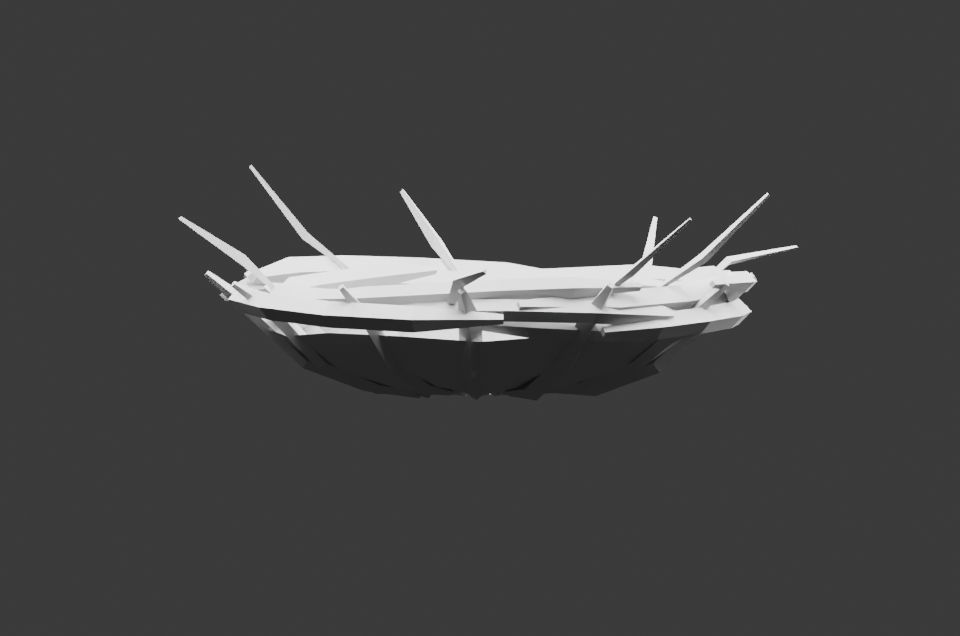
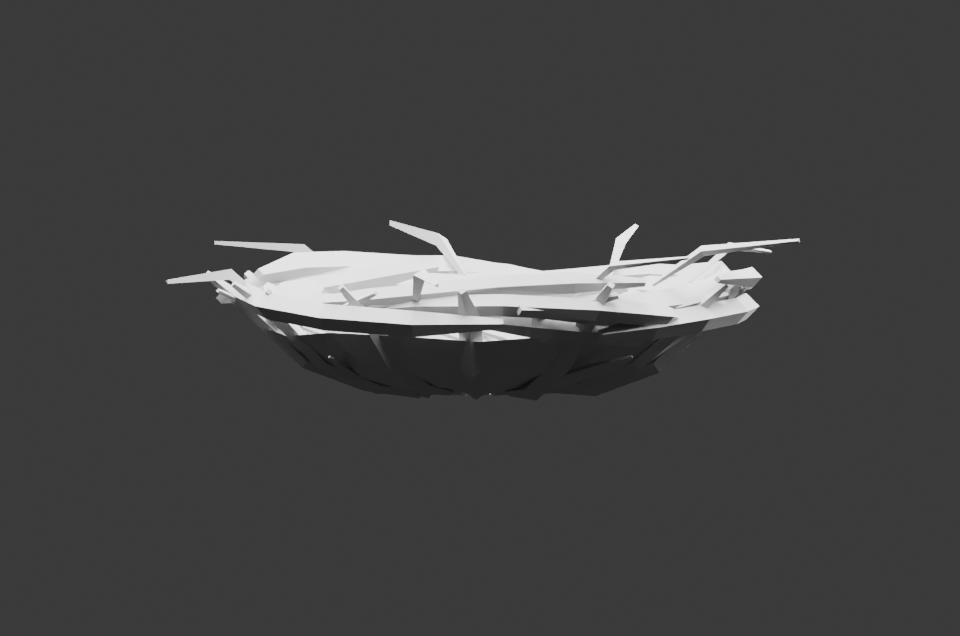
Refine gray nest weaving and reduce stalk height

Changed region(s): [[0.1562, 0.2987, 0.8438, 0.5377], [0.7812, 0.2987, 0.8125, 0.3286], [0.25, 0.2689, 0.2812, 0.2987]]

diff --git a/assets/godfrey/nest-straw/build_nest.py b/assets/godfrey/nest-straw/build_nest.py
@@ -104,10 +104,44 @@ def build_geometry():
         path = []
         for j in range(6):
             a = start + sweep * j / 5
-            r = radius + 0.017 * math.sin(3 * a + i)
-            z = z_base + 0.012 * math.sin(2 * a + i)
+            r = radius + 0.030 * math.sin(3 * a + i)
+            z = z_base + 0.020 * math.sin(2 * a + i)
             path.append((0.95 * r * math.cos(a), 0.85 * r * math.sin(a), z))
         woven_strip(path, RNG.uniform(0.016, 0.026), i % 3 if i % 5 == 0 else i % 2)
+
+    # Short diagonals lock the rim bands together and interrupt the tidy
+    # concentric reading. Their ends disappear into adjacent larger fibers.
+    for i in range(9):
+        a = 2 * math.pi * i / 9 + RNG.uniform(-0.18, 0.18)
+        path = []
+        for j, r in enumerate((0.32, 0.39, 0.44)):
+            theta = a + (j - 1) * 0.22
+            path.append((0.95 * r * math.cos(theta),
+                         0.85 * r * math.sin(theta),
+                         0.16 + 0.025 * j + 0.008 * math.sin(i + j)))
+        woven_strip(path, RNG.uniform(0.009, 0.015), i % 3)
+
+    # Loose shorter fibers cross the recessed inner well at changing radii.
+    # A few darker underside ties show beneath the shallow sidewall.
+    for i in range(9):
+        a = 2 * math.pi * i / 9 + RNG.uniform(-0.20, 0.20)
+        path = []
+        for j in range(4):
+            theta = a + 0.25 * j
+            r = 0.17 + 0.045 * j + 0.012 * math.sin(i + j)
+            z = 0.075 + 0.022 * j + 0.006 * math.cos(i - j)
+            path.append((0.95 * r * math.cos(theta),
+                         0.85 * r * math.sin(theta), z))
+        woven_strip(path, RNG.uniform(0.006, 0.010), 2 if i % 3 else 1)
+    for i in range(4):
+        a = 2 * math.pi * (i + 0.35) / 4
+        path = []
+        for j, r in enumerate((0.24, 0.30, 0.36)):
+            theta = a + 0.12 * j
+            path.append((0.95 * r * math.cos(theta),
+                         0.85 * r * math.sin(theta),
+                         0.075 + 0.018 * j))
+        woven_strip(path, 0.007, 2)
 
     # A few outward stalks puncture the silhouette. They do not form a uniform fringe.
     for i, a in enumerate((0.2, 0.9, 1.55, 2.28, 3.4, 4.45, 5.16, 5.72)):
@@ -117,7 +151,7 @@ def build_geometry():
         path = [
             (0.95 * 0.36 * math.cos(a), 0.85 * 0.36 * math.sin(a), z0),
             (0.95 * 0.44 * math.cos(a + 0.08), 0.85 * 0.44 * math.sin(a + 0.08), z0 + 0.055),
-            (0.95 * reach * math.cos(a + 0.17), 0.85 * reach * math.sin(a + 0.17), z0 + RNG.uniform(0.07, 0.17)),
+            (0.95 * reach * math.cos(a + 0.17), 0.85 * reach * math.sin(a + 0.17), z0 + RNG.uniform(0.035, 0.085)),
         ]
         woven_strip(path, 0.008 + 0.002 * (i % 3), 2, sides=3)
 
@@ -228,6 +262,11 @@ def main():
     nest.data.materials.clear()
     for mat in final_mats:
         nest.data.materials.append(mat)
+    # Blender clamps polygon material indices while a mesh has no slots.
+    # Assign them after creating the final slots so the dark inner web and
+    # contrasting pale fibers survive GLB export.
+    for polygon, material_index in zip(nest.data.polygons, FACE_MATS):
+        polygon.material_index = material_index
     bpy.ops.wm.save_as_mainfile(filepath=str(OUT / "nest-straw.blend"))
     for view in ("threequarter", "top"):
         render(OUT / f"material-{view}.png", cameras[view])
